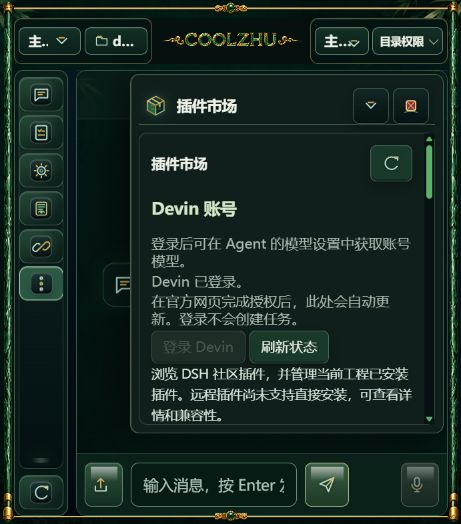
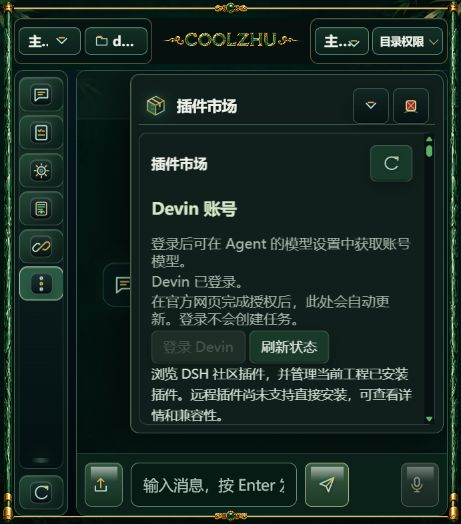
docs: 记录真实 SWE-2 验收与最新主线完整回归

diff --git a/docs/plans/2026-10-02-devin-provider-consistent-integration.md b/docs/plans/2026-10-02-devin-provider-consistent-integration.md
@@ -163,10 +163,12 @@ ACP prompt 超时或断连同样可能留下执行；没有停止事实时按未
 
 本轮已完成启动恢复与设计，并按用户随后“先在本地进行实施修改”的要求落实第一阶段代码：后端身份和门禁、原 Agent 与模型配置入口、受管 CLI 只读发现、ACP 握手/配置协议基础，以及未就绪任务的接纳前拒绝。能力未知如实返回空值，拒绝未经协商的 HTTP 采样、容量与图片覆盖。已进行编译、完整控制台回归、前端行为测试与隔离 API 保存/重启验证；结果见 `docs/work-logs/2026-10-02-devin-local-provider-foundation.md`。
 
-按用户提供的 Devin 桌面路径找到内置原生 CLI，已核对版本 `devin 3000.10.48 (fcf7ba39)`、文件 SHA256 和 ACP 子命令；CLI 认证查询及模型目录查询均明确返回未登录。已补上安装目录自动识别、错误桌面入口拒绝和未登录诊断，隔离后端实测通过。P0 的真实账号目录、ACP 生效模型和 Windows 内建旁路仍未验收。2026-10-04 已落实独立 ACP 会话驱动、台账、文本/用量事件、取消和窄工具桥，工程测试包含真实本地文件 producer；正式聊天、Goal、子 Agent 接纳仍关闭。P0/P1/P2/P3 均只部分完成，P4–P5 尚未完成。旧配置连接继续禁止 prompt；新会话驱动只在工程验证中提交模拟 ACP 提示。PR72 Cloud 代码没有直接覆盖主线，后续仍按其 client/store 基础做受审查移植。未发真实生成或收费任务，未发布或重新安装包含这些修改的安装包。详情见 [第二阶段实施记录](../work-logs/2026-10-04-devin-acp-session-and-tool-bridge.md)。
+按用户提供的 Devin 桌面路径找到内置原生 CLI，已核对版本 `devin 3000.10.48 (fcf7ba39)`、文件 SHA256 和 ACP 子命令。2026-10-04 已完成官方浏览器授权、真实认证核查与 721 项账号模型目录适配；SWE-2 三个变体均由目录标记 Free。使用 `swe-2-medium` 的真实 ACP 专项通过中文首轮回复、跨进程恢复前文与基础计算，三轮 requested/effective 一致、end_turn 与进程树排空明确。P0 的 Windows 内建旁路仍未完成完整验收。
+
+已落实独立 ACP 会话驱动、台账、文本/用量事件、取消和窄工具桥，工程测试包含真实本地文件 producer；正式聊天、Goal、子 Agent 接纳仍关闭。P0/P1/P2/P3 均只部分完成，P4–P5 尚未完成。旧配置连接继续禁止 prompt；真实生成专项只在显式开启的测试构建与临时工程运行，不构成正式入口已接通的证明。PR72 原有三次提交已通过保留双方历史的本地 merge 整合到最新主线，模块/路由/样式冲突逐处核对并同时保留；Cloud client/store 原基础保留，统一 observer 与上下文仍待补强。未使用收费模型、未发布或重新安装包含这些修改的安装包。详情见 [真实登录与 SWE-2 验收](../testing/devin-acp/real-validation-20261004.md) 和 [第二阶段实施记录](../work-logs/2026-10-04-devin-acp-session-and-tool-bridge.md)。
 
 下一步实施按 P0 → P1 → P2 → P3 推进，Cloud 补强按共用底座后展开。产品目标已确定为 Agent 内统一使用，无须再把“是否只做插件面板”交回用户决定；仍需真实确认的事项为 CLI 可控性、账号能力、授权范围与预算。
 
-补充 P2 登录体验：2026-10-04 已接入插件市场与 Agent 模型设置共用的“登录 Devin”入口，官方浏览器授权由受管本机进程执行，页面展示登录、等待、取消、超时、重试及真实认证状态。用户无需手动输入终端命令，密码和令牌不进入应用页面或会话 DTO。真实浏览器已核对两个入口可用；账号授权完成仍由用户在官方页面操作，尚未作为真实模型与权限旁路验收的完成证据。
+补充 P2 登录体验：插件市场与 Agent 模型设置共用“登录 Devin”入口，官方浏览器授权由受管本机进程执行，页面展示登录、等待、取消、超时、重试及真实认证状态。Windows 改用 ConPTY 确认官方默认浏览器选项，解决无输入而超时的问题；页面与 CLI 均已核对已登录。密码、令牌与原始授权输出不进入页面或会话 DTO。认证和纯文本真实验收已完成，完整工具隔离与统一 Agent 接线仍待实施。
 
 引用文档的历史“暂缓”与“只交方案”是原方案背景；本轮实际范围来自用户最新请求。此文件不替代后续真实任务授权，也不把拟议后端或尚未验证的能力写成已实现。

diff --git a/docs/work-logs/2026-10-04-devin-acp-session-and-tool-bridge.md b/docs/work-logs/2026-10-04-devin-acp-session-and-tool-bridge.md
@@ -65,3 +65,33 @@
 新后端在独立临时目录、独立端口实际核对本机 CLI 未登录状态。GET 不启动授权；跨站登录 POST 拒绝，令牌输入拒绝，错误流程编号取消拒绝；模型查询错误提示改为界面登录入口。证据 `tmp/analysis-devin-auth-preview.json`、`tmp/analysis-devin-auth-api-final.json`。实际浏览器核对插件页的可用登录按钮及未登录提示，并核对模型设置中切换 Devin 后共享登录按钮可用；未保存临时表单、未点击真实授权。截图 `tmp/devin-auth-plugin-preview.png`。
 
 已保留最终编译版本的本机预览供用户点击登录。预览使用复制的调试二进制与临时会话库，避免占用下次编译产物；没有替换正式安装版和指定工作区数据。真实账号授权完成、目录格式与生成验收仍需用户完成官方登录后继续核对。[官方 CLI 授权接口](https://docs.devin.ai/cli/reference/commands)。
+
+## 追加：完成真实登录、免费 SWE-2 与 PR72 整合
+
+用户明确要求检查并完成登录、用免费 SWE-2 测试会话并更新 PR。真实诊断发现当前 CLI 先要求选择登录方式，原来的 null stdin 无法确认菜单，网页账户登录也不等于 CLI 授权。本次使用受 Job 监督的 ConPTY，仅识别完整且默认选中的浏览器选项后确认一次；ConPTY 光标绘制菜单不保证换行，识别按已选中菜单片段进行。官方回调 Connected to Devin 后，CLI 和新编译插件页均核对已登录。已登录 status 会查询远端账号，等待上限从五秒增至二十秒，页面请求为二十五秒。
+
+真实账号目录采用 families/variants、model_uid/label，原 parser 不支持，已补齐严格结构校验并保留目录计费档位。目录共 721 个变体，SWE-2 High/Medium/Max 都标记 Free；三轮实际测试只用 swe-2-medium，无付费回退。真实 CLI 在 session/new 回执前发送配置通知，已改为有界缓存、回执后逐条核对 sessionId，再保存绑定与发布；错误房间通知的单测保证不保存绑定、不发布事件。
+
+真实专项用新增 Rust 会话驱动与真实 CLI，三轮分别通过问候、跨进程 load 后复述前文标记、17+25=42；实际文本块 5/4/1，历史 replay 0/10/13 单独计数。每轮模型回执一致、end_turn、进程树排空，底模解析仍未知。Free 是账号目录标记，本轮没有查询账单或捏造实际费用。报告见 docs/testing/devin-acp/real-validation-20261004.md。专项默认忽略且需显式环境开关，不会在普通回归自动登录或生成。
+
+本地分支 codex/devin-provider-integration-20261004：ce52f82 保存实施；f4cdce4 保留历史合并 PR72。没有把旧 PR 全量文件覆盖主线，三个相邻模块/路由/样式冲突同时保留双方内容。正式聊天/Goal/子 Agent 接线、统一上下文/记忆/技能、完整审批与原生旁路仍未完成，继续保持正式任务门禁。没有重新安装正式应用。
+
+
+## 最新主线整合与最终回归
+
+推送前重新核对远端主线，发现 PR75 已合并到 `4e69fd9`。本地通过 `26cd3b6` 合并其输入恢复修复，保留 PR72 原提交与本轮 Devin 实施，未覆盖原工作区或安装文件。
+
+| 检查 | 最终结果 |
+|---|---|
+| 最新源码控制台 offline build | 通过 |
+| 控制台主目标完整回归 | 1355 通过，0 失败，4 忽略 |
+| 控制台其它目标 | 8 + 1 通过，doc-tests 通过 |
+| Windows 进程管理 build/test | 编译通过，54 通过，0 失败，3 原有忽略 |
+| 最新主线 computer-use-core | 142 通过，0 失败 |
+| tool-registry offline check | 通过 |
+| 最新 module_linkage_smoke | 8 通过，0 失败 |
+| Devin 前端行为 | 9 通过，0 失败 |
+| 四份脚本语法与既有 UI 契约 | 通过 |
+| 真实免费 SWE-2 | 三轮通过，跨进程恢复与本轮输出分开 |
+
+控制台四项忽略包含两项既有忽略、两项必须显式授权的真实账号诊断/生成专项。后两项已分别定向运行成功，常规回归不会自动登录或生成。完整回归日志存于 tmp/analysis-devin-pr72-latest-regression.log；其它检查日志按 tmp/analysis-devin-pr72-*.log 保存。最终合并后插件页截图重新核对已登录，CLI 与账号目录适配模块同真实三轮验收版本一致。

diff --git a/docs/testing/devin-acp/real-validation-20261004.md b/docs/testing/devin-acp/real-validation-20261004.md
@@ -32,4 +32,23 @@
 
 已验证真实认证、账号模型目录、ACP 配置回执、流式文本、协议终态、跨进程上下文恢复与受管退出。正式主控制台聊天、Goal、子 Agent 任务入口继续关闭，完整上下文/记忆/技能、审批继续执行和 Windows 原生工具旁路隔离尚待接入验收。这份报告不宣称 Devin 已与其它 provider 的全部 Agent 能力一致。
 
-完整编译及回归结果在最终 PR 验证记录中补充。此次没有重新打包安装或合并 PR。
+## 最新主线整合与最终回归
+
+推送前重新核对远端主线，发现 PR75 已合并到 `4e69fd9`。本地通过 `26cd3b6` 合并其输入恢复修复，保留 PR72 原提交与本轮 Devin 实施，未覆盖原工作区或安装文件。
+
+| 检查 | 最终结果 |
+|---|---|
+| 最新源码控制台 offline build | 通过 |
+| 控制台主目标完整回归 | 1355 通过，0 失败，4 忽略 |
+| 控制台其它目标 | 8 + 1 通过，doc-tests 通过 |
+| Windows 进程管理 build/test | 编译通过，54 通过，0 失败，3 原有忽略 |
+| 最新主线 computer-use-core | 142 通过，0 失败 |
+| tool-registry offline check | 通过 |
+| 最新 module_linkage_smoke | 8 通过，0 失败 |
+| Devin 前端行为 | 9 通过，0 失败 |
+| 四份脚本语法与既有 UI 契约 | 通过 |
+| 真实免费 SWE-2 | 三轮通过，跨进程恢复与本轮输出分开 |
+
+控制台四项忽略包含两项既有忽略、两项必须显式授权的真实账号诊断/生成专项。后两项已分别定向运行成功，常规回归不会自动登录或生成。完整回归日志存于 tmp/analysis-devin-pr72-latest-regression.log；其它检查日志按 tmp/analysis-devin-pr72-*.log 保存。最终合并后插件页截图重新核对已登录，CLI 与账号目录适配模块同真实三轮验收版本一致。
+
+此次没有重新打包安装或合并远端 PR。
